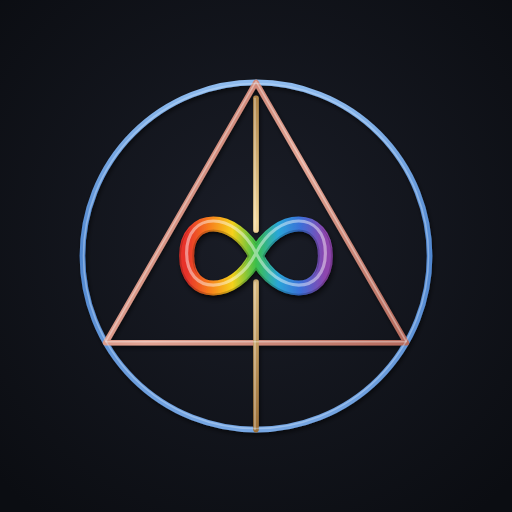
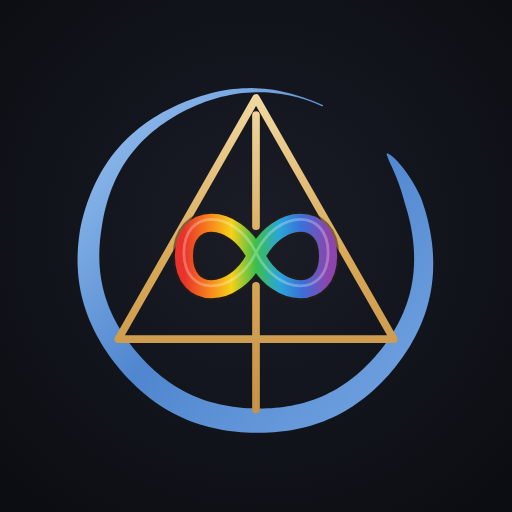
New sign: the blue ensō, the gold triangle and axis, the infinity at the centre
- MethodMark redrawn after the author's design: a blue brush circle (ensō,
  open at the top right) for the Breath, a gold inscribed triangle for
  Attention, the gold axis inside the circle for the Body, opening around the
  rainbow infinity, exactly at the centre: Space, the core of all the axes
- A thicker small version for the home title and the icons
- Method page legend: blue circle, gold triangle, the infinity at the centre
- App icons, Apple/maskable icons and favicon regenerated from the new sign
- Share image (og:image) with the sign instead of the cat; ?v=3 so it refreshes

Claude-Session: https://claude.ai/code/session_0182sZPaS2gB5pUZCshgZv8j

Changed region(s): [[0.125, 0.1562, 0.875, 0.8438]]

diff --git a/src/components/MethodMark.tsx b/src/components/MethodMark.tsx
@@ -2,38 +2,61 @@ import React, { useId } from 'react';
 import { useAccessibility } from '../hooks/useAccessibility';
 
 /**
- * The sign of the Fourfold Axis (the author's design, metal version):
- * - the gold vertical axis: gravity and the axis of the spine, the Body;
- * - the blue circle: the Breath (it must read as blue, not white or grey);
- * - the triangle inscribed in it (copper): Attention;
- * - the rainbow infinity at the centre: Space.
+ * The sign of the Fourfold Axis (the author's design):
+ * - the blue ensō, a circle drawn in one brush stroke, open at the top right:
+ *   the Breath (it must read as blue, never white or grey);
+ * - the gold triangle inscribed in it: Attention;
+ * - the gold vertical axis inside the circle: gravity and the axis of the
+ *   spine, the Body;
+ * - the rainbow infinity exactly at the centre of the circle: Space, the core
+ *   every axis starts from (the axis opens around it).
  * On the home page the whole sign breathes at the method's 5-5 (five seconds
  * widening, five narrowing) and the infinity glows on the in-breath.
  * `dim` lowers the lines (at night) so the infinity keeps its colours.
  */
 export const INFINITY_PATH = 'M144,205 C144,189 162,189 170,205 C178,221 196,221 196,205 C196,189 178,189 170,205 C162,221 144,221 144,205 Z';
 
-// Geometry in a 200 × 200 box: circle r 80 at the centre, the equilateral
-// triangle inscribed in it (apex up), the axis from just under the apex to the
-// bottom of the circle, open where it meets the infinity.
-const R = 80;
-const BASE_Y = 100 + R / 2;
+// Geometry in a 200 × 200 box, centred on (100, 100).
+const R = 78;
 const HALF = (R * Math.sqrt(3)) / 2;
-const TRIANGLE = `100,${100 - R} ${(100 - HALF).toFixed(2)},${BASE_Y} ${(100 + HALF).toFixed(2)},${BASE_Y}`;
+const APEX_Y = 100 - R + 4;
+const BASE_Y = 100 + R / 2;
+const TRIANGLE = `100,${APEX_Y} ${(100 - HALF + 3).toFixed(2)},${BASE_Y} ${(100 + HALF - 3).toFixed(2)},${BASE_Y}`;
+
+/** The brush circle: thick where the brush lands, tapering where it lifts. */
+function ensoPath(width: number): string {
+  const n = 220, start = -38, sweep = 332;
+  const outer: string[] = [], inner: string[] = [];
+  for (let i = 0; i <= n; i++) {
+    const t = i / n;
+    const a = ((start + sweep * t) * Math.PI) / 180;
+    const r = R + 0.7 * Math.sin(2 * a + 0.9) + 0.25 * Math.sin(7 * a);
+    const w = Math.max(0.6,
+      width * (0.62 + 0.38 * Math.sin(Math.PI * Math.min(1, t * 1.15)))
+        * Math.min(1, (1 - t) * 3.2) ** 0.9
+        * Math.min(1, t * 18) ** 0.5);
+    const ux = Math.cos(a), uy = Math.sin(a);
+    outer.push(`${(100 + (r + w / 2) * ux).toFixed(2)},${(100 + (r + w / 2) * uy).toFixed(2)}`);
+    inner.push(`${(100 + (r - w / 2) * ux).toFixed(2)},${(100 + (r - w / 2) * uy).toFixed(2)}`);
+  }
+  return `M${outer.join(' L')} L${inner.reverse().join(' L')} Z`;
+}
+const ENSO_LARGE = ensoPath(11.5);
+const ENSO_SMALL = ensoPath(15);
 
 /**
- * `small`: for ~40–56px (next to the home title): thicker lines and infinity,
- * no highlights; it does not grow and shrink, only the infinity glows with the breath.
+ * `small`: for ~40–56px (next to the home title, icons): thicker lines and
+ * infinity, no highlights; it does not grow and shrink, only the infinity
+ * glows with the breath.
  */
 export function MethodMark({ className = '', label, breathe = false, dim = false, small = false }: { className?: string; label?: string; breathe?: boolean; dim?: boolean; small?: boolean }) {
   const { reduceMotion } = useAccessibility();
   const id = useId().replace(/:/g, '');
   const moving = breathe && !reduceMotion;
-  const W = small ? 6 : 2.6;          // line width
-  const HI = W * 0.18;                // where the light catches each line
-  const GAP = small ? 16 : 12;        // the axis opens around the infinity
-  const INF_SCALE = small ? 1.4 : 1.23;
-  const INF_W = small ? 8 : 5.6;
+  const W = small ? 6.5 : 3.6;        // gold line width
+  const GAP = small ? 17 : 14;        // the axis opens around the infinity
+  const INF_SCALE = small ? 1.4 : 1.3;
+  const INF_W = small ? 8 : 6.5;
   const u = (name: string) => `url(#${id}-${name})`;
   return (
     <svg viewBox="0 0 200 200" className={`block ${className}`} {...(label ? { role: 'img', 'aria-label': label } : { 'aria-hidden': true })}>
@@ -47,24 +70,19 @@ export function MethodMark({ className = '', label, breathe = false, dim = false
           <stop offset="82%" stopColor="#3b6fd8" />
           <stop offset="100%" stopColor="#8e44ad" />
         </linearGradient>
-        {/* Metal gradients in user space (a vertical line has no width, so a box-based gradient would not draw). */}
-        <linearGradient id={`${id}-blue`} gradientUnits="userSpaceOnUse" x1="0" y1="20" x2="0" y2="180">
-          <stop offset="0%" stopColor="#8fbcef" />
+        <linearGradient id={`${id}-blue`} x1="0" y1="0" x2="1" y2="1">
+          <stop offset="0%" stopColor="#9cc6f2" />
           <stop offset="50%" stopColor="#4f86cf" />
           <stop offset="100%" stopColor="#77a7e3" />
         </linearGradient>
-        <linearGradient id={`${id}-copper`} gradientUnits="userSpaceOnUse" x1="30" y1="20" x2="170" y2="140">
-          <stop offset="0%" stopColor="#b9675a" />
-          <stop offset="50%" stopColor="#e2a493" />
-          <stop offset="100%" stopColor="#b56a5c" />
-        </linearGradient>
-        <linearGradient id={`${id}-gold`} gradientUnits="userSpaceOnUse" x1="100" y1="20" x2="100" y2="180">
-          <stop offset="0%" stopColor="#a77b3f" />
-          <stop offset="40%" stopColor="#f3d79a" />
-          <stop offset="100%" stopColor="#9c7038" />
+        {/* In user space: a vertical line has no width, so a box-based gradient would not draw. */}
+        <linearGradient id={`${id}-gold`} gradientUnits="userSpaceOnUse" x1="0" y1="10" x2="0" y2="190">
+          <stop offset="0%" stopColor="#f6e2b0" />
+          <stop offset="50%" stopColor="#d9a957" />
+          <stop offset="100%" stopColor="#c08d45" />
         </linearGradient>
         <filter id={`${id}-shadow`} x="-20%" y="-20%" width="140%" height="140%">
-          <feDropShadow dx="0.6" dy="1.2" stdDeviation="0.9" floodColor="#000" floodOpacity="0.55" />
+          <feDropShadow dx="0.6" dy="1.2" stdDeviation="0.9" floodColor="#000" floodOpacity="0.5" />
         </filter>
         <filter id={`${id}-soft`} x="-50%" y="-50%" width="200%" height="200%">
           <feGaussianBlur stdDeviation="4" />
@@ -77,40 +95,25 @@ export function MethodMark({ className = '', label, breathe = false, dim = false
         `}</style>
       </defs>
       <g className={moving && !small ? 'methodmark-breathe' : ''}>
-        <g opacity={dim ? 0.72 : 1}>
-          {/* The lines, like thin metal tubes with a soft shadow */}
-          <g fill="none" strokeWidth={W} strokeLinecap="round" strokeLinejoin="round" filter={small ? undefined : u('shadow')}>
-            <circle cx="100" cy="100" r={R} stroke={u('blue')} />
-            <polygon points={TRIANGLE} stroke={u('copper')} />
-            <line x1="100" y1={100 - R + 6 + W / 2} x2="100" y2={100 - GAP} stroke={u('gold')} />
-            <line x1="100" y1={100 + GAP} x2="100" y2={100 + R} stroke={u('gold')} />
+        <g opacity={dim ? 0.72 : 1} filter={small ? undefined : u('shadow')}>
+          {/* The Breath: the blue ensō */}
+          <path d={small ? ENSO_SMALL : ENSO_LARGE} fill={u('blue')} />
+          {/* Attention and the Body: the gold triangle and the axis, open around the centre */}
+          <g fill="none" stroke={u('gold')} strokeWidth={W} strokeLinecap="round" strokeLinejoin="round">
+            <polygon points={TRIANGLE} />
+            <line x1="100" y1={APEX_Y + 8} x2="100" y2={100 - GAP} />
+            <line x1="100" y1={100 + GAP} x2="100" y2={100 + R - 6} />
           </g>
-          {/* A thin light line along each tube, where the metal catches the light */}
-          {!small && (
-            <g fill="none" stroke="#fff" strokeOpacity="0.35" strokeWidth={W * 0.28} strokeLinecap="round" strokeLinejoin="round">
-              <circle cx="100" cy="100" r={R - HI} strokeOpacity="0.4" stroke="#cfe3fb" />
-              <polygon points={TRIANGLE} transform={`translate(0 ${-HI})`} />
-              <line x1={100 - HI} y1={100 - R + 6} x2={100 - HI} y2={100 - GAP} />
-              <line x1={100 - HI} y1={100 + GAP} x2={100 - HI} y2={100 + R} />
-            </g>
-          )}
         </g>
+        {/* Space: the infinity, exactly at the centre of the circle */}
         <g transform={`translate(100 100) scale(${INF_SCALE}) translate(-170 -205)`} fill="none" strokeLinecap="round" strokeLinejoin="round">
           {breathe && (
             <path d={INFINITY_PATH} stroke={u('rainbow')} strokeWidth={INF_W * 1.6} filter={u('soft')}
               className={moving ? 'methodmark-glow' : ''} opacity={moving ? undefined : 0.3} />
           )}
-          {/* Glossy infinity: colour, a darker underside, the colour again, a highlight on top */}
-          <g filter={small ? undefined : u('shadow')}>
-            <path d={INFINITY_PATH} stroke={u('rainbow')} strokeWidth={INF_W} />
-            {!small && (
-              <>
-                <path d={INFINITY_PATH} stroke="#000" strokeOpacity="0.18" strokeWidth={INF_W} transform="translate(0 0.9)" />
-                <path d={INFINITY_PATH} stroke={u('rainbow')} strokeWidth={INF_W * 0.75} />
-                <path d={INFINITY_PATH} stroke="#fff" strokeOpacity="0.45" strokeWidth="1.2" transform="translate(0 -1.1)" />
-              </>
-            )}
-          </g>
+          <path d={INFINITY_PATH} stroke="#2a1f12" strokeOpacity="0.55" strokeWidth={INF_W + 1.6} />
+          <path d={INFINITY_PATH} stroke={u('rainbow')} strokeWidth={INF_W} />
+          {!small && <path d={INFINITY_PATH} stroke="#fff" strokeOpacity="0.28" strokeWidth="1" transform="translate(0 -1.2)" />}
         </g>
       </g>
     </svg>

diff --git a/src/pages/Method.tsx b/src/pages/Method.tsx
@@ -11,18 +11,18 @@ const SIGN = {
     title: 'Το σήμα της μεθόδου',
     parts: [
       { color: '#d9b77a', name: 'Ο χρυσός κάθετος άξονας', text: 'η βαρύτητα και ο άξονας της σπονδυλικής στήλης: το Σώμα.' },
-      { color: '#6a9de0', name: 'Ο κύκλος', text: 'η Αναπνοή.' },
-      { color: '#c97b6c', name: 'Το τρίγωνο', text: 'η Προσοχή.' },
-      { color: 'rainbow', name: 'Το άπειρο', text: 'ο Χώρος.' },
+      { color: '#6a9de0', name: 'Ο μπλε κύκλος', text: 'η Αναπνοή.' },
+      { color: '#d9a957', name: 'Το χρυσό τρίγωνο', text: 'η Προσοχή.' },
+      { color: 'rainbow', name: 'Το άπειρο, στο κέντρο', text: 'ο Χώρος, ο πυρήνας όλων των αξόνων.' },
     ],
   },
   en: {
     title: 'The sign of the method',
     parts: [
       { color: '#d9b77a', name: 'The gold vertical axis', text: 'gravity and the axis of the spine: the Body.' },
-      { color: '#6a9de0', name: 'The circle', text: 'the Breath.' },
-      { color: '#c97b6c', name: 'The triangle', text: 'Attention.' },
-      { color: 'rainbow', name: 'The infinity', text: 'Space.' },
+      { color: '#6a9de0', name: 'The blue circle', text: 'the Breath.' },
+      { color: '#d9a957', name: 'The gold triangle', text: 'Attention.' },
+      { color: 'rainbow', name: 'The infinity, at the centre', text: 'Space, the core of all the axes.' },
     ],
   },
 };

diff --git a/src/components/SEO.tsx b/src/components/SEO.tsx
@@ -627,7 +627,7 @@ export const SEO: React.FC = () => {
       <meta property="og:title"       content={title} />
       <meta property="og:description" content={description} />
       <meta property="og:url"         content={canonicalUrl} />
-      <meta property="og:image"       content={`${BASE_URL}/og-image.png?v=2`} />
+      <meta property="og:image"       content={`${BASE_URL}/og-image.png?v=3`} />
       <meta property="og:type"        content="website" />
       <meta property="og:site_name"   content="Neurodivergent Mindfulness App" />
 
@@ -635,7 +635,7 @@ export const SEO: React.FC = () => {
       <meta name="twitter:card"        content="summary_large_image" />
       <meta name="twitter:title"       content={title} />
       <meta name="twitter:description" content={description} />
-      <meta name="twitter:image"       content={`${BASE_URL}/og-image.png?v=2`} />
+      <meta name="twitter:image"       content={`${BASE_URL}/og-image.png?v=3`} />
 
       {/* Canonical + hreflang */}
       <link rel="canonical"                href={canonicalUrl} />

diff --git a/scripts/prerender.ts b/scripts/prerender.ts
@@ -877,7 +877,7 @@ function buildHead(route: string, meta: RouteMeta, baseHtml: string): string {
   <meta data-seo="prerender" property="og:title" content="${title}" />
   <meta data-seo="prerender" property="og:description" content="${desc}" />
   <meta data-seo="prerender" property="og:url" content="${canonicalUrl}" />
-  <meta data-seo="prerender" property="og:image" content="${BASE_URL}/og-image.png?v=2" />
+  <meta data-seo="prerender" property="og:image" content="${BASE_URL}/og-image.png?v=3" />
   <meta data-seo="prerender" property="og:image:width" content="1200" />
   <meta data-seo="prerender" property="og:image:height" content="630" />
   <meta data-seo="prerender" property="og:image:alt" content="${lang === 'en' ? 'Neurodivergent Mindfulness – a white cat with the rainbow infinity' : 'Neurodivergent Mindfulness – Ενσυνειδητότητα για Νευροδιαφορετικούς'}" />
